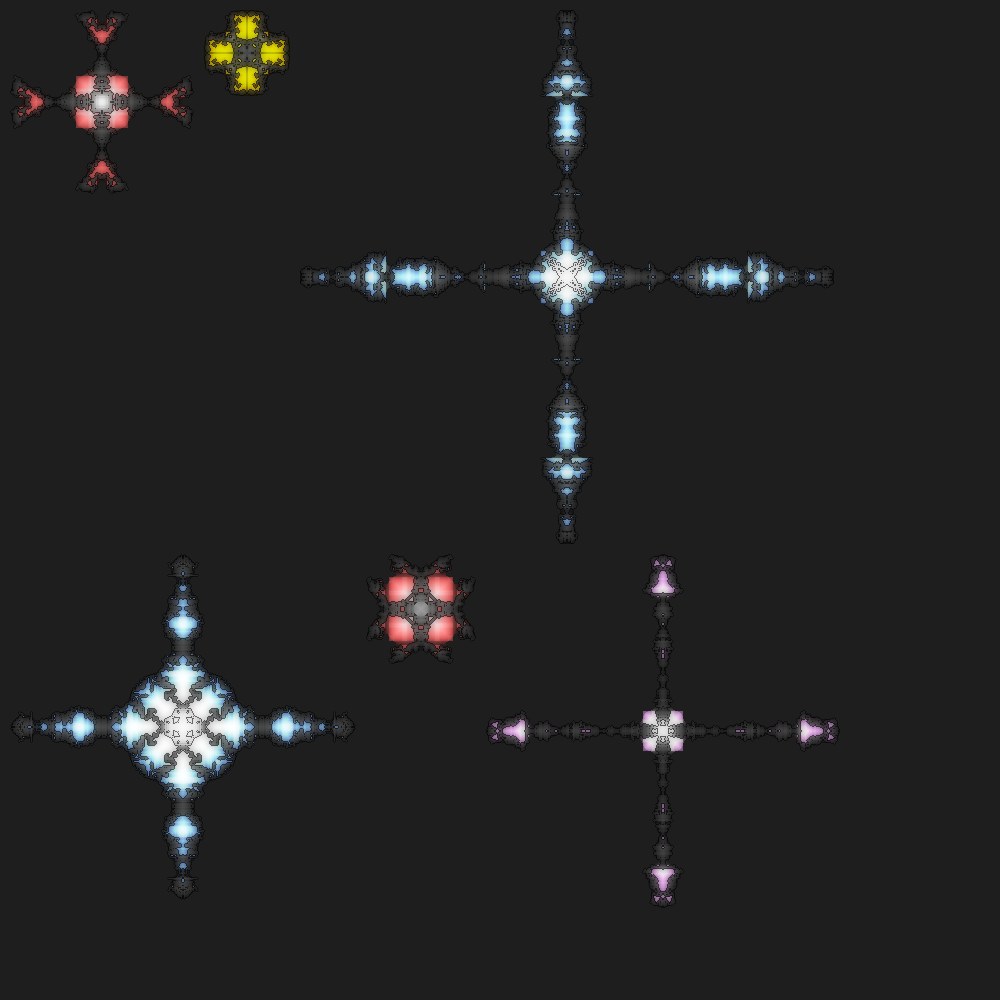
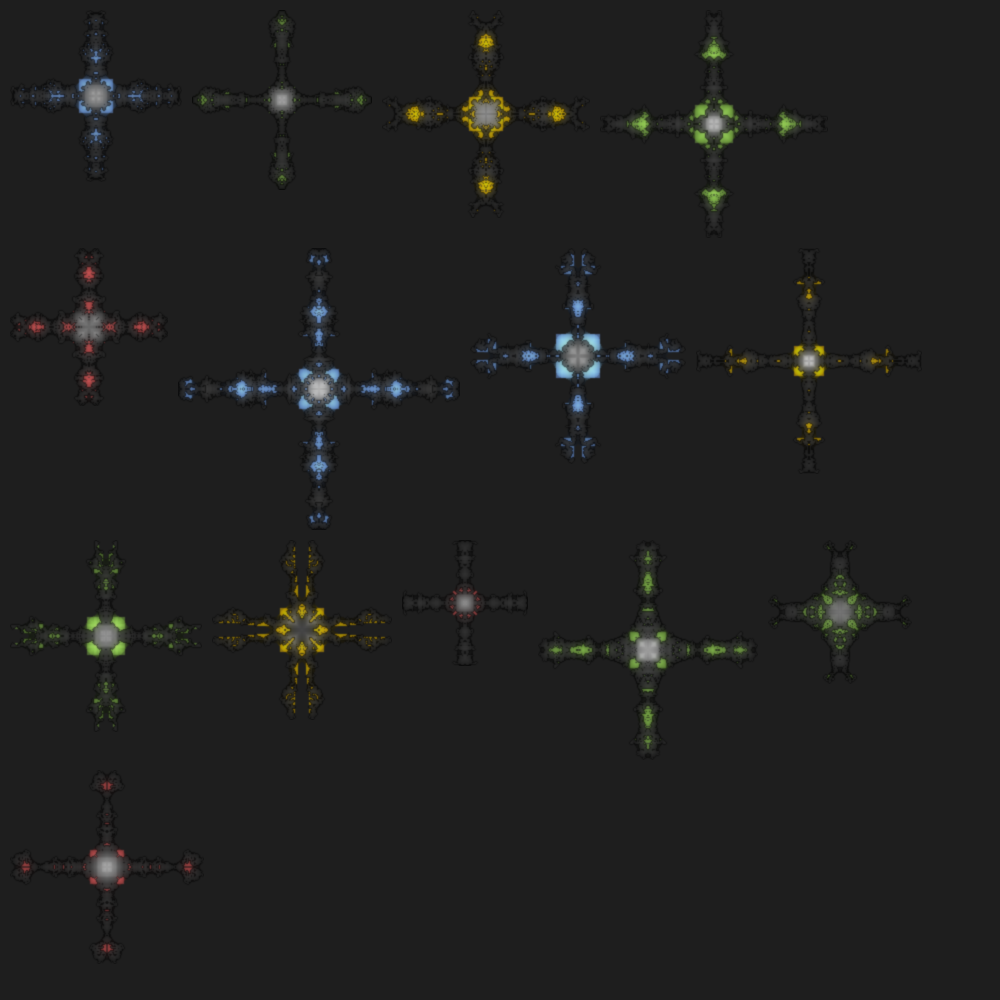
Various Updates

diff --git a/src/ajb/factory/StationGeneratorFactory.java b/src/ajb/factory/StationGeneratorFactory.java
@@ -26,8 +26,8 @@ public class StationGeneratorFactory {
 		grid = PixelGridUtils.addBorders(grid);
 		grid = PixelGridUtils.floor(grid);
 		PixelGridUtils.fillEmptySurroundedPixelsInGrid(grid);
-		//PixelGridUtils.addNoiseToFlatPixels(grid);
-		PixelGridUtils.setPixelDepth(grid);
+		PixelGridUtils.addNoiseToFlatPixels(grid);			
+		PixelGridUtils.setPixelDepth(grid);		
 
 		if (validateGrid(grid)) {		
 			return grid;
@@ -69,15 +69,15 @@ public class StationGeneratorFactory {
 //			//System.out.println("REJECTED");
 //		}
 //		
-//		if (noOfSecondaryPixels > (noOfFilledPixels / 4)) {
-//			result = false;
-//			//System.out.println("REJECTED");
-//		}
-//		
-//		if (noOfTertiaryPixels > (noOfFilledPixels / 3)) {
-//			result = false;
-//			//System.out.println("REJECTED");
-//		}	
+		if (noOfSecondaryPixels > (noOfFilledPixels / 4)) {
+			result = false;
+			//System.out.println("REJECTED");
+		}
+		
+		if (noOfTertiaryPixels > (noOfFilledPixels / 4)) {
+			result = false;
+			//System.out.println("REJECTED");
+		}	
 		
 		return result;
 	}
@@ -89,15 +89,12 @@ public class StationGeneratorFactory {
 
 		Point point = new Point(ROWS -1, COLS - 1);
 
-		int steps = RandomInt.anyRandomIntRange(5, 50);
-		int subSteps = RandomInt.anyRandomIntRange(5, 120);
+		int steps = RandomInt.anyRandomIntRange(20, 30);
+		int subSteps = RandomInt.anyRandomIntRange(50, 80);
 
 		for (int i = 0; i < steps; i++) {
 
 			if (point == null) {
-				// we are passed the first step lets find the highest most pixel
-				// that is closest to the middle, and go again from there...
-
 				// down top
 				for (int x = ROWS - 1; x > 0; x--) {
 					// left to right
@@ -110,8 +107,6 @@ public class StationGeneratorFactory {
 			}
 
 			for (int y = 0; y < subSteps; y++) {
-				// now process points randomly starting with one determined from
-				// above
 				point = processPoint(point, grid);
 			}
 
@@ -123,15 +118,13 @@ public class StationGeneratorFactory {
 
 	private void addExtras(Pixel[][] grid) {
 
-		int steps = RandomInt.anyRandomIntRange(0, 20);
-		int subSteps = RandomInt.anyRandomIntRange(5, 50);
+		int steps = RandomInt.anyRandomIntRange(20, 20);
+		int subSteps = RandomInt.anyRandomIntRange(50, 50);
 
 		for (int i = 0; i < steps; i++) {
-			Point point = PixelGridUtils.getRandomFilledPoint(grid);
+			Point point = new Point(ROWS -1, COLS - 1);
 
 			for (int y = 0; y < subSteps; y++) {
-				// now process points randomly starting with one determined from
-				// above
 				point = processPoint(point, grid);
 			}
 		}

diff --git a/src/ajb/factory/VesselGeneratorFactory.java b/src/ajb/factory/VesselGeneratorFactory.java
@@ -25,7 +25,7 @@ public class VesselGeneratorFactory {
 		grid = PixelGridUtils.addBorders(grid);
 		grid = PixelGridUtils.floor(grid);
 		PixelGridUtils.fillEmptySurroundedPixelsInGrid(grid);
-		PixelGridUtils.addNoiseToFlatPixels(grid);
+		PixelGridUtils.addNoiseToFlatPixels(grid);	
 		PixelGridUtils.setPixelDepth(grid);
 
 		if (validateGrid(grid)) {		
@@ -140,6 +140,39 @@ public class VesselGeneratorFactory {
 
 		if (grid[point.x][point.y].value == Pixel.EMPTY) {
 			grid[point.x][point.y].value = Pixel.FILLED;
+			
+			// top
+			NeighbouringPoint pointTop = new NeighbouringPoint(point.x - 1, point.y, NeighbouringPointDirection.TOP);
+
+			// bottom
+			NeighbouringPoint pointBottom = new NeighbouringPoint(point.x + 1, point.y, NeighbouringPointDirection.BOTTOM);
+
+			// left
+			NeighbouringPoint pointLeft = new NeighbouringPoint(point.x, point.y - 1, NeighbouringPointDirection.LEFT);
+
+			// right
+			NeighbouringPoint pointRight = new NeighbouringPoint(point.x, point.y + 1, NeighbouringPointDirection.RIGHT);
+
+			boolean pointTopValid = PixelGridUtils.isPointWithinGrid(pointTop, grid);
+			boolean pointBottomValid = PixelGridUtils.isPointWithinGrid(pointBottom, grid);
+			boolean pointLeftValid = PixelGridUtils.isPointWithinGrid(pointLeft, grid);
+			boolean pointRightValid = PixelGridUtils.isPointWithinGrid(pointRight, grid);
+			
+			if (pointTopValid) {
+				grid[point.x - 1][point.y].value = Pixel.FILLED;
+			}
+			
+			if (pointBottomValid) {
+				grid[point.x + 1][point.y].value = Pixel.FILLED;
+			}
+			
+			if (pointLeftValid) {
+				grid[point.x][point.y - 1].value = Pixel.FILLED;
+			}
+			
+			if (pointRightValid) {
+				grid[point.x][point.y + 1].value = Pixel.FILLED;
+			}			
 		}
 
 		return PixelGridUtils.getRandomNeighbouringPoint(point, grid);

diff --git a/src/ajb/utils/ImageUtils.java b/src/ajb/utils/ImageUtils.java
@@ -32,7 +32,7 @@ public class ImageUtils {
 		
 		BufferedImage result = blend(baseImg, layer1Img);
 
-		filter.setRadius(1f);
+		filter.setRadius(1.5f);
 		result = filter.filter(result, null);
 		
 		return result;
@@ -65,16 +65,16 @@ public class ImageUtils {
 
 				} else if (grid[r][c].value == Pixel.FILLED) {
 
-					gr.setColor(ColorUtils.lighter(primaryColor, grid[r][c].depth * 0.1));
+					gr.setColor(ColorUtils.lighter(primaryColor, grid[r][c].depth * 0.05 > 6 ? 8 : grid[r][c].depth * 0.05));
 					gr.fillRect(c * scaleFactor, r * scaleFactor, scaleFactor, scaleFactor);
 
 				} else if (grid[r][c].value == Pixel.SECONDARY) {
 
-					gr.setColor(ColorUtils.lighter(secondaryColor, grid[r][c].depth * 0.1));
+					gr.setColor(ColorUtils.lighter(secondaryColor, grid[r][c].depth * 0.05));
 					gr.fillRect(c * scaleFactor, r * scaleFactor, scaleFactor, scaleFactor);
 				} else if (grid[r][c].value == Pixel.TERTIARY) {
 
-					gr.setColor(ColorUtils.lighter(tertiaryColor, grid[r][c].depth * 0.1));
+					gr.setColor(ColorUtils.lighter(tertiaryColor, grid[r][c].depth * 0.05));
 					gr.fillRect(c * scaleFactor, r * scaleFactor, scaleFactor, scaleFactor);
 				} else if (grid[r][c].value == Pixel.EMPTY) {
 

diff --git a/src/ajb/utils/PixelGridUtils.java b/src/ajb/utils/PixelGridUtils.java
@@ -210,7 +210,9 @@ public class PixelGridUtils {
 
 		for (int r = 0; r < gridWithBorders.length; r++) {
 			for (int c = 0; c < gridWithBorders[0].length; c++) {
-				if (gridWithBorders[r][c].value == Pixel.FILLED) {
+				if (gridWithBorders[r][c].value == Pixel.FILLED ||
+						gridWithBorders[r][c].value == Pixel.SECONDARY ||
+						gridWithBorders[r][c].value == Pixel.TERTIARY) {
 
 					// Top
 					if (gridWithBorders[r == 0 ? 0 : r - 1][c].value != Pixel.FILLED) {

diff --git a/src/ajb/factory/AsteroidGeneratorFactory.java b/src/ajb/factory/AsteroidGeneratorFactory.java
@@ -21,7 +21,8 @@ public class AsteroidGeneratorFactory {
 
 		grid = PixelGridUtils.floor(grid);
 		grid = PixelGridUtils.addBorders(grid);
-		PixelGridUtils.fillEmptySurroundedPixelsInGrid(grid);
+		grid = PixelGridUtils.floor(grid);
+		PixelGridUtils.fillEmptySurroundedPixelsInGrid(grid);		
 		PixelGridUtils.setPixelDepth(grid);
 
 		if (validateGrid(grid)) {		

diff --git a/examples/ajb/examples/CreateImageFullOfStations.java b/examples/ajb/examples/CreateImageFullOfStations.java
@@ -20,7 +20,7 @@ public class CreateImageFullOfStations {
 		List<Pixel[][]> grids = new ArrayList<Pixel[][]>();
 
 		// create X stations and add to our list
-		for (int i = 0; i < 10; i++) {
+		for (int i = 0; i < 15; i++) {
 
 			Pixel[][] grid = factory.create();
 
